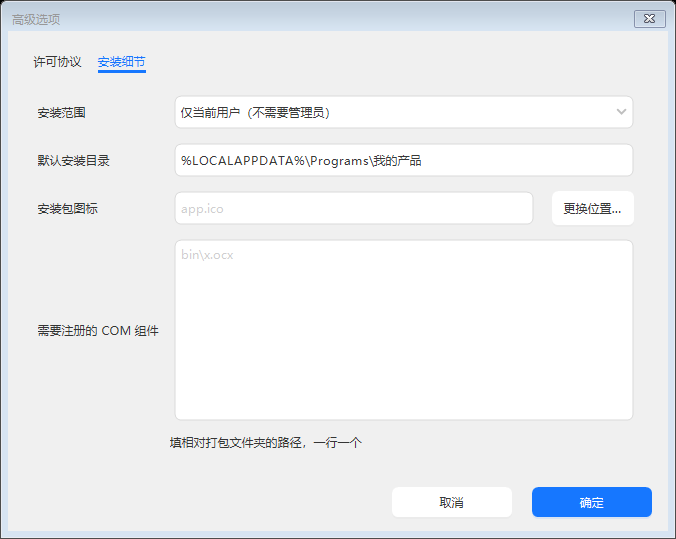
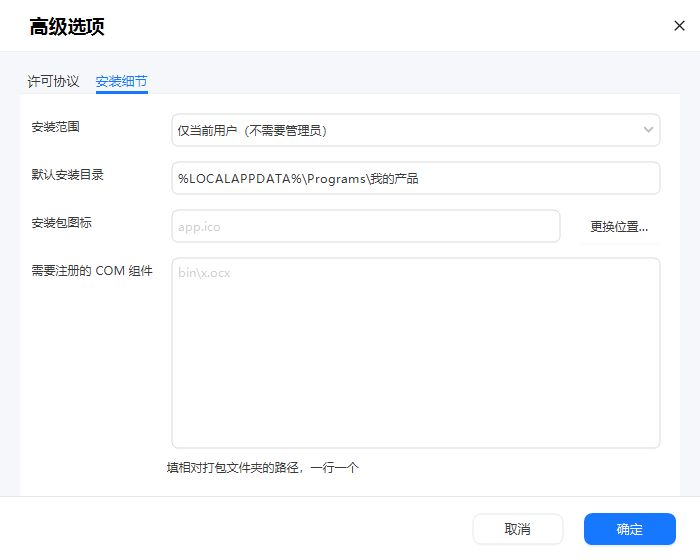
高级设置改造成与主界面同一套视觉语言
改造前的问题：
- 还挂着经典 WinForms 标题栏（主界面早已无边框 + AntdUI 自绘标题栏）
- 整片灰底，没有「灰底 + 白卡片」的层次
- 标签用 Anchor=Left（垂直居中），在长文本框旁边悬空
- 提示文字「填相对打包文件夹的路径，一行一行」孤零零挂在左下角

改动
外壳（AdvancedForm.Designer.cs 重写）
- FormBorderStyle=None + AntdUI.PageHeader 自绘标题栏
  （ShowIcon=false / MaximizeBox=false / MinimizeBox=false，只留关闭）
- 灰底 #F5F7FA + 内容区白卡片 + 页脚白底 + 1px 分隔线
- 按钮 100x40 圆角 8：取消（次要带边框）/ 确定（主色）
- 窗口 660x500 → 700x560

内容
- 两个视图 Dock=Fill + 白底，挂进 TabPage 后就是一张卡片
- 四个标签全部改 Anchor=Top|Left + Margin(0,12,12,0)，与输入框顶边对齐
- 六个输入框补 AutoSize=false（AntdUI 默认 true 会无视 Dock=Fill）

验证
- verify-ui.ps1 新增第 4 节「高级设置对话框」7 项检查：
  标题栏白底 / 内容区白卡片 / 页脚白底 / 页面背景 #F5F7FA /
  顶部不能出现系统原生标题栏的浅蓝渐变
- 现在共 31 项，全部通过

验收：构建 0 警告、单元测试 182/182、端到端 169/169、
      check-designer 通过、verify-ui 31/31 通过

diff --git a/src/Installer.Builder/Forms/AdvancedForm.Designer.cs b/src/Installer.Builder/Forms/AdvancedForm.Designer.cs
@@ -28,98 +28,155 @@ namespace Installer.Builder.Forms
         /// </summary>
         private void InitializeComponent()
         {
-            this.rootLayout = new System.Windows.Forms.TableLayoutPanel();
+            this.pageHeader = new AntdUI.PageHeader();
+            this.contentLayout = new System.Windows.Forms.TableLayoutPanel();
             this.tabs = new AntdUI.Tabs();
+            this.footerLayout = new System.Windows.Forms.TableLayoutPanel();
+            this.divider = new System.Windows.Forms.Panel();
             this.buttonLayout = new System.Windows.Forms.FlowLayoutPanel();
             this.btnOk = new AntdUI.Button();
             this.btnCancel = new AntdUI.Button();
-            this.rootLayout.SuspendLayout();
+            this.pageHeader.SuspendLayout();
+            this.contentLayout.SuspendLayout();
+            this.footerLayout.SuspendLayout();
             this.buttonLayout.SuspendLayout();
             this.SuspendLayout();
             //
-            // rootLayout
+            // pageHeader —— 标题栏（与主界面同一套：无边框 + 自绘标题栏）
             //
-            this.rootLayout.ColumnCount = 1;
-            this.rootLayout.ColumnStyles.Add(new System.Windows.Forms.ColumnStyle(System.Windows.Forms.SizeType.Percent, 100F));
-            this.rootLayout.Controls.Add(this.tabs, 0, 0);
-            this.rootLayout.Controls.Add(this.buttonLayout, 0, 1);
-            this.rootLayout.Dock = System.Windows.Forms.DockStyle.Fill;
-            this.rootLayout.Location = new System.Drawing.Point(0, 0);
-            this.rootLayout.Name = "rootLayout";
-            this.rootLayout.Padding = new System.Windows.Forms.Padding(12, 12, 12, 0);
-            this.rootLayout.RowCount = 2;
-            this.rootLayout.RowStyles.Add(new System.Windows.Forms.RowStyle(System.Windows.Forms.SizeType.Percent, 100F));
-            this.rootLayout.RowStyles.Add(new System.Windows.Forms.RowStyle(System.Windows.Forms.SizeType.Absolute, 60F));
-            this.rootLayout.Size = new System.Drawing.Size(660, 500);
-            this.rootLayout.TabIndex = 0;
+            this.pageHeader.BackColor = System.Drawing.Color.White;
+            this.pageHeader.DividerShow = true;
+            this.pageHeader.Dock = System.Windows.Forms.DockStyle.Top;
+            this.pageHeader.DragMove = true;
+            this.pageHeader.Location = new System.Drawing.Point(0, 0);
+            this.pageHeader.Margin = new System.Windows.Forms.Padding(0);
+            this.pageHeader.MaximizeBox = false;
+            this.pageHeader.MinimizeBox = false;
+            this.pageHeader.Name = "pageHeader";
+            this.pageHeader.Padding = new System.Windows.Forms.Padding(20, 0, 0, 0);
+            this.pageHeader.ShowButton = true;
+            this.pageHeader.ShowIcon = false;
+            this.pageHeader.Size = new System.Drawing.Size(700, 52);
+            this.pageHeader.TabIndex = 0;
+            this.pageHeader.Text = "高级选项";
+            this.pageHeader.UseTitleFont = true;
+            //
+            // contentLayout
+            //
+            this.contentLayout.ColumnCount = 1;
+            this.contentLayout.ColumnStyles.Add(new System.Windows.Forms.ColumnStyle(System.Windows.Forms.SizeType.Percent, 100F));
+            this.contentLayout.Controls.Add(this.tabs, 0, 0);
+            this.contentLayout.Dock = System.Windows.Forms.DockStyle.Fill;
+            this.contentLayout.Location = new System.Drawing.Point(0, 52);
+            this.contentLayout.Name = "contentLayout";
+            this.contentLayout.Padding = new System.Windows.Forms.Padding(20, 16, 20, 0);
+            this.contentLayout.RowCount = 1;
+            this.contentLayout.RowStyles.Add(new System.Windows.Forms.RowStyle(System.Windows.Forms.SizeType.Percent, 100F));
+            this.contentLayout.Size = new System.Drawing.Size(700, 444);
+            this.contentLayout.TabIndex = 1;
             //
             // tabs
             //
             this.tabs.Dock = System.Windows.Forms.DockStyle.Fill;
-            this.tabs.Location = new System.Drawing.Point(15, 15);
+            this.tabs.Location = new System.Drawing.Point(20, 16);
+            this.tabs.Margin = new System.Windows.Forms.Padding(0);
             this.tabs.Name = "tabs";
-            this.tabs.Size = new System.Drawing.Size(630, 422);
+            this.tabs.Size = new System.Drawing.Size(660, 428);
             this.tabs.TabIndex = 0;
+            //
+            // footerLayout —— 上方 1px 分隔线 + 按钮行
+            //
+            this.footerLayout.BackColor = System.Drawing.Color.White;
+            this.footerLayout.ColumnCount = 1;
+            this.footerLayout.ColumnStyles.Add(new System.Windows.Forms.ColumnStyle(System.Windows.Forms.SizeType.Percent, 100F));
+            this.footerLayout.Controls.Add(this.divider, 0, 0);
+            this.footerLayout.Controls.Add(this.buttonLayout, 0, 1);
+            this.footerLayout.Dock = System.Windows.Forms.DockStyle.Bottom;
+            this.footerLayout.Location = new System.Drawing.Point(0, 496);
+            this.footerLayout.Margin = new System.Windows.Forms.Padding(0);
+            this.footerLayout.Name = "footerLayout";
+            this.footerLayout.RowCount = 2;
+            this.footerLayout.RowStyles.Add(new System.Windows.Forms.RowStyle(System.Windows.Forms.SizeType.Absolute, 1F));
+            this.footerLayout.RowStyles.Add(new System.Windows.Forms.RowStyle(System.Windows.Forms.SizeType.Absolute, 63F));
+            this.footerLayout.Size = new System.Drawing.Size(700, 64);
+            this.footerLayout.TabIndex = 2;
+            //
+            // divider
+            //
+            this.divider.BackColor = System.Drawing.Color.FromArgb(((int)(((byte)(229)))), ((int)(((byte)(232)))), ((int)(((byte)(239)))));
+            this.divider.Dock = System.Windows.Forms.DockStyle.Fill;
+            this.divider.Location = new System.Drawing.Point(0, 0);
+            this.divider.Margin = new System.Windows.Forms.Padding(0);
+            this.divider.Name = "divider";
+            this.divider.Size = new System.Drawing.Size(700, 1);
+            this.divider.TabIndex = 0;
             //
             // buttonLayout
             //
+            this.buttonLayout.BackColor = System.Drawing.Color.White;
             this.buttonLayout.Controls.Add(this.btnOk);
             this.buttonLayout.Controls.Add(this.btnCancel);
             this.buttonLayout.Dock = System.Windows.Forms.DockStyle.Fill;
             this.buttonLayout.FlowDirection = System.Windows.Forms.FlowDirection.RightToLeft;
-            this.buttonLayout.Location = new System.Drawing.Point(12, 440);
+            this.buttonLayout.Location = new System.Drawing.Point(0, 1);
             this.buttonLayout.Margin = new System.Windows.Forms.Padding(0);
             this.buttonLayout.Name = "buttonLayout";
-            this.buttonLayout.Size = new System.Drawing.Size(636, 60);
+            this.buttonLayout.Padding = new System.Windows.Forms.Padding(0, 12, 20, 0);
+            this.buttonLayout.Size = new System.Drawing.Size(700, 63);
             this.buttonLayout.TabIndex = 1;
             //
             // btnOk
             //
-            this.btnOk.Location = new System.Drawing.Point(508, 12);
-            this.btnOk.Margin = new System.Windows.Forms.Padding(12, 12, 0, 12);
+            this.btnOk.Location = new System.Drawing.Point(580, 12);
+            this.btnOk.Margin = new System.Windows.Forms.Padding(12, 0, 0, 0);
             this.btnOk.Name = "btnOk";
-            this.btnOk.Radius = 6;
-            this.btnOk.Size = new System.Drawing.Size(128, 38);
+            this.btnOk.Radius = 8;
+            this.btnOk.Size = new System.Drawing.Size(100, 40);
             this.btnOk.TabIndex = 0;
             this.btnOk.Text = "确定";
             this.btnOk.Type = AntdUI.TTypeMini.Primary;
-            this.btnOk.Click += new System.EventHandler(this.BtnOkClick);
             //
             // btnCancel
             //
-            this.btnCancel.Location = new System.Drawing.Point(368, 12);
-            this.btnCancel.Margin = new System.Windows.Forms.Padding(12, 12, 0, 12);
+            this.btnCancel.BorderWidth = 1F;
+            this.btnCancel.DefaultBorderColor = System.Drawing.Color.FromArgb(((int)(((byte)(229)))), ((int)(((byte)(232)))), ((int)(((byte)(239)))));
+            this.btnCancel.Location = new System.Drawing.Point(468, 12);
+            this.btnCancel.Margin = new System.Windows.Forms.Padding(12, 0, 0, 0);
             this.btnCancel.Name = "btnCancel";
-            this.btnCancel.Radius = 6;
-            this.btnCancel.Size = new System.Drawing.Size(128, 38);
+            this.btnCancel.Radius = 8;
+            this.btnCancel.Size = new System.Drawing.Size(100, 40);
             this.btnCancel.TabIndex = 1;
             this.btnCancel.Text = "取消";
-            this.btnCancel.Click += new System.EventHandler(this.BtnCancelClick);
             //
             // AdvancedForm
             //
             this.AutoScaleDimensions = new System.Drawing.SizeF(7F, 17F);
             this.AutoScaleMode = System.Windows.Forms.AutoScaleMode.Font;
-            this.ClientSize = new System.Drawing.Size(660, 500);
-            this.Controls.Add(this.rootLayout);
-            this.Font = new System.Drawing.Font("微软雅黑", 9F);
-            this.MaximizeBox = false;
-            this.MinimizeBox = false;
-            this.MinimumSize = new System.Drawing.Size(560, 420);
+            this.BackColor = System.Drawing.Color.FromArgb(((int)(((byte)(245)))), ((int)(((byte)(247)))), ((int)(((byte)(250)))));
+            this.ClientSize = new System.Drawing.Size(700, 560);
+            this.Controls.Add(this.contentLayout);
+            this.Controls.Add(this.footerLayout);
+            this.Controls.Add(this.pageHeader);
+            this.Font = new System.Drawing.Font("微软雅黑", 9.75F);
+            this.FormBorderStyle = System.Windows.Forms.FormBorderStyle.None;
+            this.MinimumSize = new System.Drawing.Size(640, 520);
             this.Name = "AdvancedForm";
-            this.ShowIcon = false;
-            this.ShowInTaskbar = false;
             this.StartPosition = System.Windows.Forms.FormStartPosition.CenterParent;
             this.Text = "高级选项";
-            this.rootLayout.ResumeLayout(false);
+            this.pageHeader.ResumeLayout(false);
+            this.contentLayout.ResumeLayout(false);
+            this.footerLayout.ResumeLayout(false);
             this.buttonLayout.ResumeLayout(false);
             this.ResumeLayout(false);
         }
 
         #endregion
 
-        private System.Windows.Forms.TableLayoutPanel rootLayout;
+        private AntdUI.PageHeader pageHeader;
+        private System.Windows.Forms.TableLayoutPanel contentLayout;
         private AntdUI.Tabs tabs;
+        private System.Windows.Forms.TableLayoutPanel footerLayout;
+        private System.Windows.Forms.Panel divider;
         private System.Windows.Forms.FlowLayoutPanel buttonLayout;
         private AntdUI.Button btnOk;
         private AntdUI.Button btnCancel;

diff --git a/src/Installer.Builder/Views/AdvancedInstallView.Designer.cs b/src/Installer.Builder/Views/AdvancedInstallView.Designer.cs
@@ -73,7 +73,8 @@ namespace Installer.Builder.Views
             //
             // lblScope
             //
-            this.lblScope.Anchor = System.Windows.Forms.AnchorStyles.Left;
+            this.lblScope.Anchor = ((System.Windows.Forms.AnchorStyles)((System.Windows.Forms.AnchorStyles.Top | System.Windows.Forms.AnchorStyles.Left)));
+            this.lblScope.Margin = new System.Windows.Forms.Padding(0, 12, 12, 0);
             this.lblScope.AutoSize = true;
             this.lblScope.Location = new System.Drawing.Point(15, 27);
             this.lblScope.Name = "lblScope";
@@ -83,6 +84,7 @@ namespace Installer.Builder.Views
             //
             // cboScope
             //
+            this.cboScope.AutoSize = false;
             this.cboScope.Dock = System.Windows.Forms.DockStyle.Fill;
             this.cboScope.Location = new System.Drawing.Point(147, 13);
             this.cboScope.Name = "cboScope";
@@ -91,7 +93,8 @@ namespace Installer.Builder.Views
             //
             // lblDir
             //
-            this.lblDir.Anchor = System.Windows.Forms.AnchorStyles.Left;
+            this.lblDir.Anchor = ((System.Windows.Forms.AnchorStyles)((System.Windows.Forms.AnchorStyles.Top | System.Windows.Forms.AnchorStyles.Left)));
+            this.lblDir.Margin = new System.Windows.Forms.Padding(0, 12, 12, 0);
             this.lblDir.AutoSize = true;
             this.lblDir.Location = new System.Drawing.Point(15, 75);
             this.lblDir.Name = "lblDir";
@@ -101,6 +104,7 @@ namespace Installer.Builder.Views
             //
             // txtDir
             //
+            this.txtDir.AutoSize = false;
             this.txtDir.Dock = System.Windows.Forms.DockStyle.Fill;
             this.txtDir.Location = new System.Drawing.Point(147, 61);
             this.txtDir.Name = "txtDir";
@@ -110,7 +114,8 @@ namespace Installer.Builder.Views
             //
             // lblIcon
             //
-            this.lblIcon.Anchor = System.Windows.Forms.AnchorStyles.Left;
+            this.lblIcon.Anchor = ((System.Windows.Forms.AnchorStyles)((System.Windows.Forms.AnchorStyles.Top | System.Windows.Forms.AnchorStyles.Left)));
+            this.lblIcon.Margin = new System.Windows.Forms.Padding(0, 12, 12, 0);
             this.lblIcon.AutoSize = true;
             this.lblIcon.Location = new System.Drawing.Point(15, 123);
             this.lblIcon.Name = "lblIcon";
@@ -135,6 +140,7 @@ namespace Installer.Builder.Views
             //
             // txtIcon
             //
+            this.txtIcon.AutoSize = false;
             this.txtIcon.Dock = System.Windows.Forms.DockStyle.Fill;
             this.txtIcon.Location = new System.Drawing.Point(0, 0);
             this.txtIcon.Margin = new System.Windows.Forms.Padding(0);
@@ -156,7 +162,8 @@ namespace Installer.Builder.Views
             //
             // lblCom
             //
-            this.lblCom.Anchor = System.Windows.Forms.AnchorStyles.Left;
+            this.lblCom.Anchor = ((System.Windows.Forms.AnchorStyles)((System.Windows.Forms.AnchorStyles.Top | System.Windows.Forms.AnchorStyles.Left)));
+            this.lblCom.Margin = new System.Windows.Forms.Padding(0, 12, 12, 0);
             this.lblCom.AutoSize = true;
             this.lblCom.Location = new System.Drawing.Point(15, 242);
             this.lblCom.Name = "lblCom";
@@ -166,6 +173,7 @@ namespace Installer.Builder.Views
             //
             // txtCom
             //
+            this.txtCom.AutoSize = false;
             this.txtCom.Dock = System.Windows.Forms.DockStyle.Fill;
             this.txtCom.Location = new System.Drawing.Point(147, 157);
             this.txtCom.Multiline = true;
@@ -176,7 +184,7 @@ namespace Installer.Builder.Views
             //
             // lblComHint
             //
-            this.lblComHint.Anchor = System.Windows.Forms.AnchorStyles.Left;
+            this.lblComHint.Anchor = ((System.Windows.Forms.AnchorStyles)((System.Windows.Forms.AnchorStyles.Top | System.Windows.Forms.AnchorStyles.Left)));
             this.lblComHint.AutoSize = true;
             this.lblComHint.Location = new System.Drawing.Point(147, 394);
             this.lblComHint.Name = "lblComHint";

diff --git a/src/Installer.Builder/Views/AdvancedLicenseView.Designer.cs b/src/Installer.Builder/Views/AdvancedLicenseView.Designer.cs
@@ -71,7 +71,8 @@ namespace Installer.Builder.Views
             //
             // lblZh
             //
-            this.lblZh.Anchor = System.Windows.Forms.AnchorStyles.Left;
+            this.lblZh.Anchor = ((System.Windows.Forms.AnchorStyles)((System.Windows.Forms.AnchorStyles.Top | System.Windows.Forms.AnchorStyles.Left)));
+            this.lblZh.Margin = new System.Windows.Forms.Padding(0, 12, 12, 0);
             this.lblZh.AutoSize = true;
             this.lblZh.Location = new System.Drawing.Point(15, 141);
             this.lblZh.Name = "lblZh";
@@ -81,6 +82,7 @@ namespace Installer.Builder.Views
             //
             // txtZh
             //
+            this.txtZh.AutoSize = false;
             this.txtZh.Dock = System.Windows.Forms.DockStyle.Fill;
             this.txtZh.Location = new System.Drawing.Point(75, 55);
             this.txtZh.Multiline = true;
@@ -90,7 +92,8 @@ namespace Installer.Builder.Views
             //
             // lblEn
             //
-            this.lblEn.Anchor = System.Windows.Forms.AnchorStyles.Left;
+            this.lblEn.Anchor = ((System.Windows.Forms.AnchorStyles)((System.Windows.Forms.AnchorStyles.Top | System.Windows.Forms.AnchorStyles.Left)));
+            this.lblEn.Margin = new System.Windows.Forms.Padding(0, 12, 12, 0);
             this.lblEn.AutoSize = true;
             this.lblEn.Location = new System.Drawing.Point(15, 339);
             this.lblEn.Name = "lblEn";
@@ -100,6 +103,7 @@ namespace Installer.Builder.Views
             //
             // txtEn
             //
+            this.txtEn.AutoSize = false;
             this.txtEn.Dock = System.Windows.Forms.DockStyle.Fill;
             this.txtEn.Location = new System.Drawing.Point(75, 253);
             this.txtEn.Multiline = true;

diff --git a/src/Installer.Builder/Forms/AdvancedForm.cs b/src/Installer.Builder/Forms/AdvancedForm.cs
@@ -26,6 +26,12 @@ namespace Installer.Builder.Forms
             _presenter = presenter;
             InitializeComponent();
 
+            // 让两个视图撑满 TabPage 并保持白底，视觉上就是一张卡片
+            _licenseView.Dock = System.Windows.Forms.DockStyle.Fill;
+            _licenseView.BackColor = System.Drawing.Color.White;
+            _installView.Dock = System.Windows.Forms.DockStyle.Fill;
+            _installView.BackColor = System.Drawing.Color.White;
+
             var licensePage = new AntdUI.TabPage { Text = "许可协议" };
             licensePage.Controls.Add(_licenseView);
 
